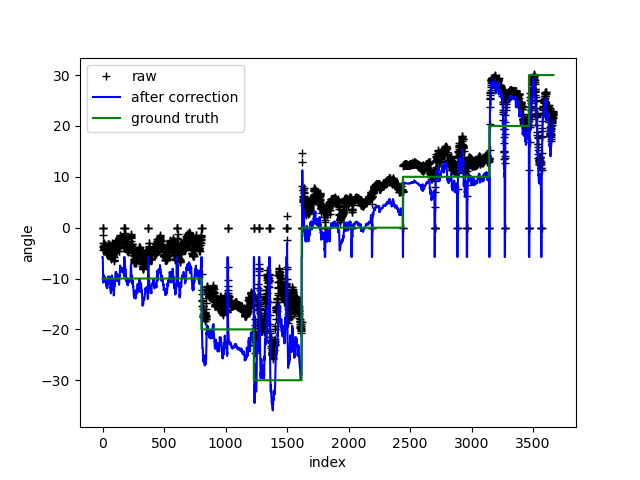
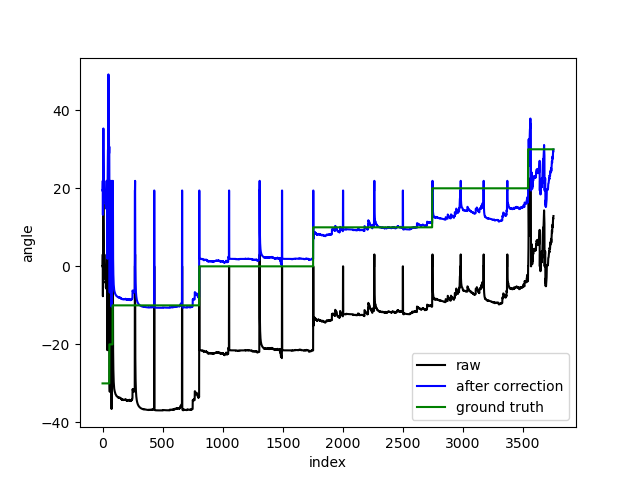
[add] elevation 校正结果

diff --git a/code/correction.py b/code/correction.py
@@ -57,6 +57,19 @@ def get_error(predicted,actual):
 
 
 def correct():
+    #elevation
+    info={
+        -30:[4,5,6,7],
+        -20:[4,5,6,7],
+        -10:[4,5,6,7],
+        0:[4,5,6,7],
+        10:[4,5,6,7],
+        20:[4,5,6,7],
+        30:[4,5,6,7]
+    }
+
+    #azimuth
+    '''
     info={
         -10:[0,1,2,3],
         -20:[0,1],
@@ -66,6 +79,7 @@ def correct():
         20:[0,1],
         30:[0,1]
     }
+    '''
     xwhat, ground_truth = connect_data(info)
     a, b = fit_linear(np.array(xwhat), np.array(ground_truth))
     print(f"a = {a:.2f}, b = {b:.2f}")
@@ -75,7 +89,7 @@ def correct():
     get_error(a*np.array(xwhat)+b, np.array(ground_truth))
 
     plt.figure()
-    plt.plot(xwhat, 'k+', label='raw')
+    plt.plot(xwhat, 'k', label='raw')
     plt.plot(a*np.array(xwhat)+b, 'b-', label='after correction')
     plt.plot(ground_truth, 'g', label='ground truth')
     plt.legend()
@@ -85,4 +99,39 @@ def correct():
 
 if __name__ == '__main__':
     correct()
-    # a = 1.17, b = -5.77
+    '''
+    RX2, RX3, elevation
+    a 可正可负，主要和位置有关，实际使用时，a是正的
+    a = -0.81, b = 19.43
+    before correction:
+    MAE误差：19.995
+    MSE误差：639.618
+    RMSE误差：25.291
+    after correction:
+    MAE误差：3.742
+    MSE误差：67.618
+    RMSE误差：8.223
+
+    a = 0.81, b = 19.43
+    before correction:
+    MAE误差：23.741
+    MSE误差：578.279
+    RMSE误差：24.047
+    after correction:
+    MAE误差：3.742
+    MSE误差：67.618
+    RMSE误差：8.223
+    '''
+
+    '''
+    RX1, RX3, azimuth
+    a = 1.13, b = -5.49
+    before correction:
+    MAE误差：6.252
+    MSE误差：58.859
+    RMSE误差：7.672
+    after correction:
+    MAE误差：3.442
+    MSE误差：29.093
+    RMSE误差：5.394
+    '''

diff --git a/code/data_analysis.py b/code/data_analysis.py
@@ -21,7 +21,7 @@ def get_data(angle,index):
 
     res=[]
     for i in data:
-        if i>35 or i<-35:
+        if i>39 or i<-39:
             continue
         res.append(i)
     return res
@@ -71,6 +71,6 @@ def kalman_filter_test(angle,index):
 
 if __name__ == '__main__':
     for i in [-30,-20,-10,0,10,20,30]:
-        for j in range(4):
+        for j in range(4,8):
             kalman_filter_test(i,j)
             # data_analysis(i,j)
